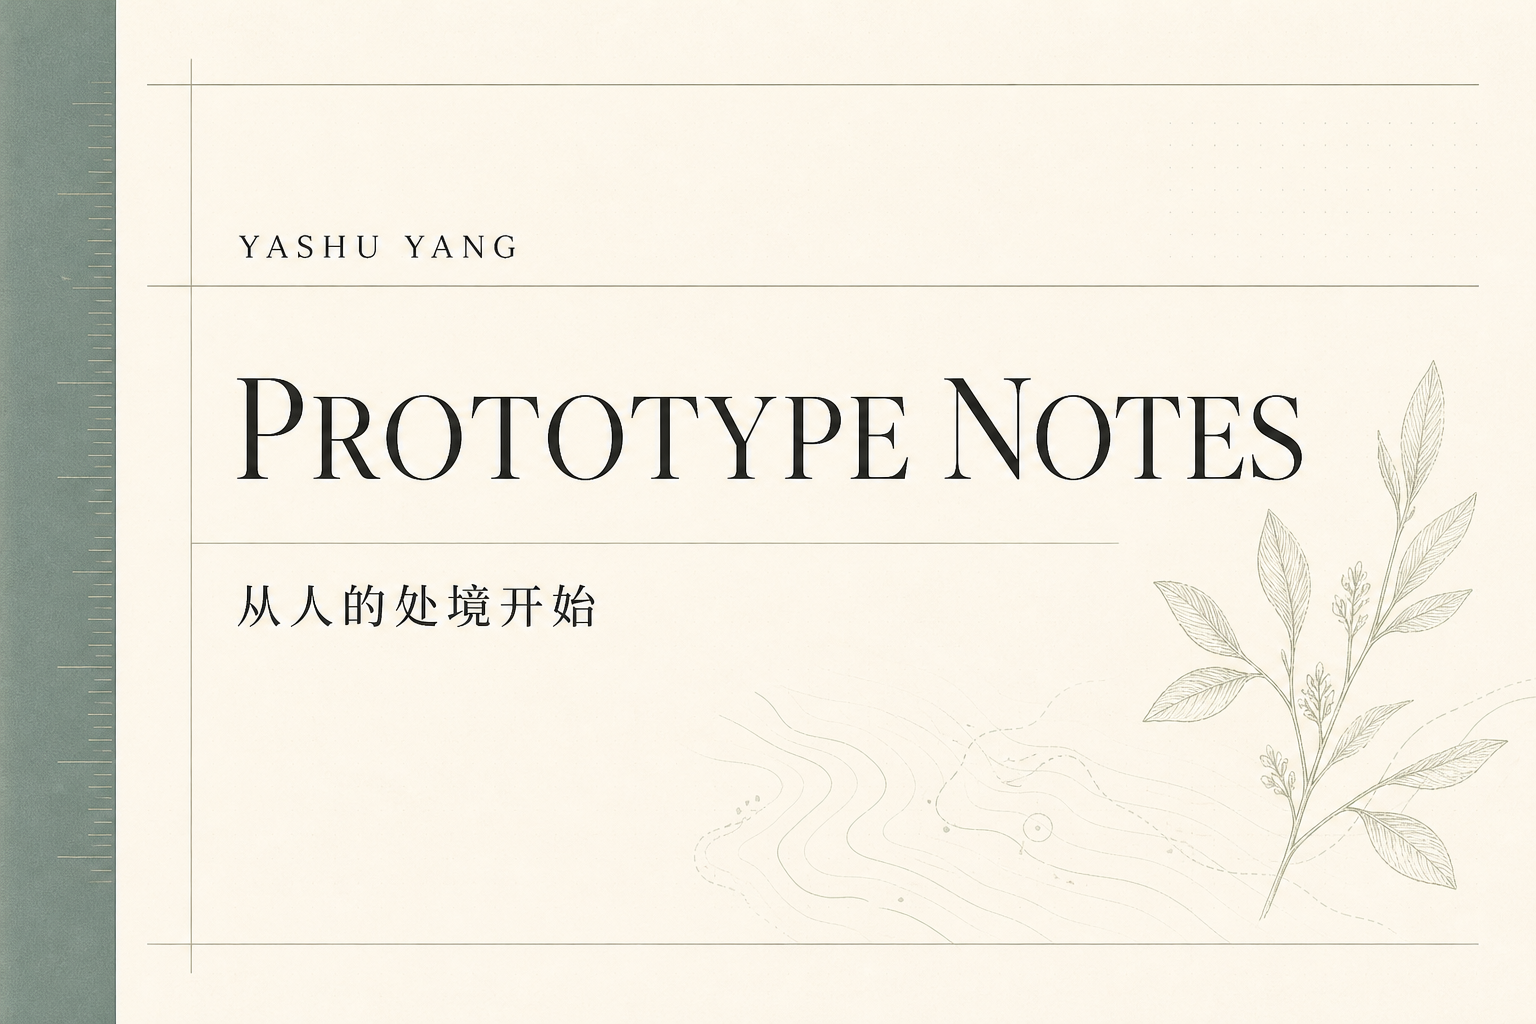
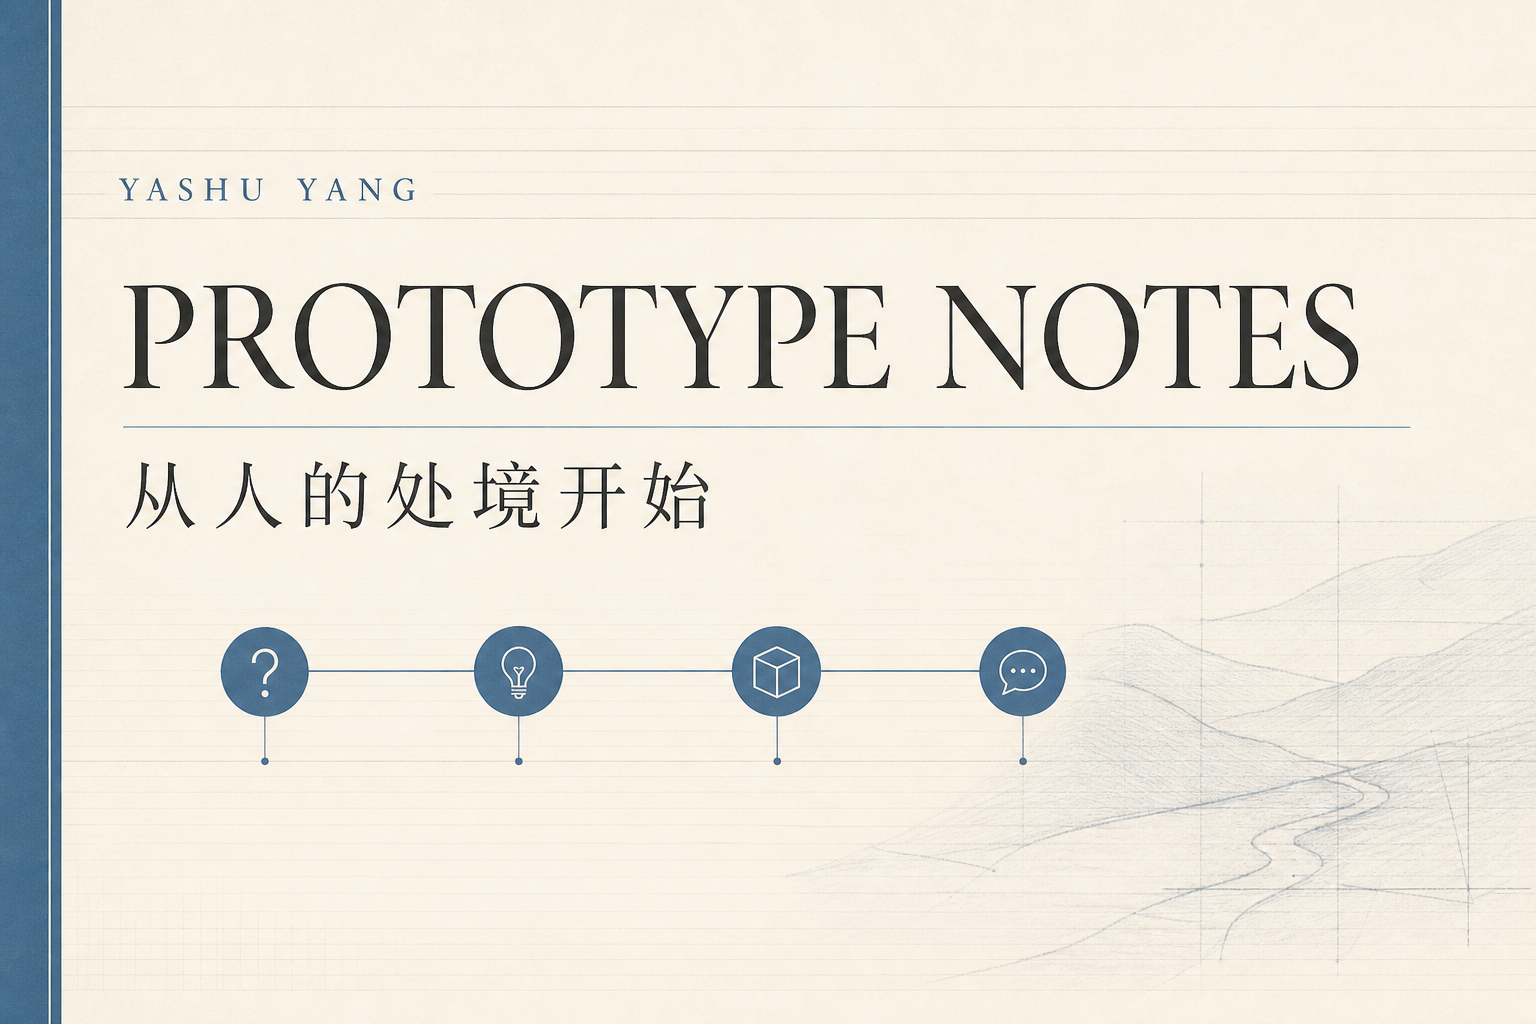
Reframe portfolio with a clearer cognitive flow
Move to a muted blue visual system and organize each project as problem, insight, action, result, and prototype experience.

diff --git a/index.html b/index.html
@@ -8,7 +8,7 @@
     <meta property="og:description" content="从人的处境开始：把生活经验做成可以被体验的问题。" />
     <meta property="og:image" content="https://yoshuayang.github.io/yashu-prototype-notes/og.png" />
     <link rel="canonical" href="https://yoshuayang.github.io/yashu-prototype-notes/" />
-    <link rel="stylesheet" href="styles.css?v=20260817-3" />
+    <link rel="stylesheet" href="styles.css?v=20260817-4" />
     <title>杨雅姝｜交互原型作品</title>
   </head>
   <body>
@@ -35,6 +35,9 @@
           <p class="section-label">A QUIET PLACE FOR QUESTIONS</p>
           <h1>从人的处境开始。</h1>
           <p class="hero-thesis">把模糊的生活经验，做成可以被体验的问题。</p>
+          <ol class="cognitive-path" aria-label="从研究问题到交互验证的工作路径">
+            <li><span>01</span><strong>识别问题</strong></li><li><span>02</span><strong>形成洞察</strong></li><li><span>03</span><strong>做成原型</strong></li><li><span>04</span><strong>获得反馈</strong></li>
+          </ol>
           <div class="hero-notes">
             <p>围绕亲密关系与注意力管理，我主导了两个交互原型：从日常经验中定义问题，完成需求拆解、交互设计与原型实现，并把模糊直觉转化为可体验、可验证的产品假设。</p>
             <dl>
@@ -47,22 +50,23 @@
         </section>
 
         <section class="projects" aria-label="交互原型作品">
-          <div class="section-heading"><p class="section-label">SELECTED PROTOTYPES</p><p>两次从生活经验到可交互界面的练习</p></div>
+          <div class="section-heading"><p class="section-label">SELECTED PROTOTYPES</p><p>沿着“问题—洞察—行动—结果”阅读</p></div>
 
           <article class="project-sheet relationship" id="project-01">
             <header class="project-heading">
               <div><p>01 / INTERACTIVE NOTE</p><h2>关系星系</h2><span>Relationship Galaxy</span></div>
               <span class="prototype-status">可交互原型</span>
             </header>
-            <blockquote>亲密关系中的冲突，能否从“谁对谁错”重新回到彼此未说出口的需要？</blockquote>
+            <blockquote><span>问题</span>亲密关系中的冲突，能否从“谁对谁错”重新回到彼此未说出口的需要？</blockquote>
             <div class="notation relationship" aria-hidden="true">
               <span class="notation-number">01</span><i class="orbit orbit-one"></i><i class="orbit orbit-two"></i><i class="node node-a"></i><i class="node node-b"></i><small>NEED ↔ EXPRESSION</small>
             </div>
             <div class="project-copy">
-              <p class="project-summary">把难以复盘的关系冲突，转译成可记录、可观察、可共同讨论的互动旅程。</p>
-              <p class="project-details">原型包含对话记录、关系模式分析、内心地图与共同探索路径；我负责问题定义、需求拆解、交互逻辑与原型迭代。</p>
+              <div class="reasoning-block"><span>01 / 洞察</span><p>关系冲突常被压缩成对错判断，真正影响互动的需要、表达方式和关系模式反而难以被看见。</p></div>
+              <div class="reasoning-block"><span>02 / 我做了什么</span><p>我把抽象的关系经验拆成对话记录、模式分析、内心地图与共同探索路径，并持续调整交互逻辑。</p></div>
+              <div class="reasoning-block result"><span>03 / 可体验结果</span><p>形成一条可记录、可观察、可共同讨论的互动旅程，让冲突重新成为理解彼此的入口。</p></div>
               <ul aria-label="项目标签"><li>亲密关系</li><li>需求洞察</li><li>叙事交互</li></ul>
-              <a class="launch" href="relationship-galaxy.html">打开原型 <span aria-hidden="true">↗</span></a>
+              <a class="launch" href="relationship-galaxy.html">04 / 打开原型 <span aria-hidden="true">↗</span></a>
               <p class="prototype-note">概念原型 · 不保存上传内容 · 不构成心理建议</p>
             </div>
           </article>
@@ -72,15 +76,16 @@
               <div><p>02 / INTERACTIVE NOTE</p><h2>PFC Insight</h2><span>Cognitive Workload Prototype</span></div>
               <span class="prototype-status">可交互原型</span>
             </header>
-            <blockquote>如果任务压力不只是待办数量，我们该如何看见切换、恢复与注意力的真实成本？</blockquote>
+            <blockquote><span>问题</span>如果任务压力不只是待办数量，我们该如何看见切换、恢复与注意力的真实成本？</blockquote>
             <div class="notation cognition" aria-hidden="true">
               <span class="notation-number">02</span><i class="bar bar-one"></i><i class="bar bar-two"></i><i class="bar bar-three"></i><i class="bar bar-four"></i><small>LOAD / SWITCH / RECOVER</small>
             </div>
             <div class="project-copy">
-              <p class="project-summary">把抽象的任务压力拆解为日程、切换成本与恢复节奏，让认知负担获得一个可讨论的界面。</p>
-              <p class="project-details">原型支持任务分类、负荷曲线、执行功能分解和恢复建议，展示从生活问题到交互规则的快速验证过程。</p>
+              <div class="reasoning-block"><span>01 / 洞察</span><p>任务压力不仅来自待办数量，也来自频繁切换、恢复不足，以及难以被觉察的注意力消耗。</p></div>
+              <div class="reasoning-block"><span>02 / 我做了什么</span><p>我把认知负担拆成任务分类、切换成本、负荷曲线与恢复节奏，并将判断过程转化为交互规则。</p></div>
+              <div class="reasoning-block result"><span>03 / 可体验结果</span><p>形成一个可视化认知负荷的概念原型，使抽象压力可以被看见、讨论和重新安排。</p></div>
               <ul aria-label="项目标签"><li>任务管理</li><li>信息可视化</li><li>认知负荷</li></ul>
-              <a class="launch" href="pfc-insight.html">打开原型 <span aria-hidden="true">↗</span></a>
+              <a class="launch" href="pfc-insight.html">04 / 打开原型 <span aria-hidden="true">↗</span></a>
               <p class="prototype-note">启发式概念模型 · 非医学评估、诊断或个体化建议</p>
             </div>
           </article>

diff --git a/styles.css b/styles.css
@@ -5,8 +5,9 @@
   --muted: #74736d;
   --faint: #a6a49c;
   --line: #d9d6cd;
-  --accent: #657b75;
-  --accent-soft: #e3e9e6;
+  --accent: #587996;
+  --accent-deep: #45657f;
+  --accent-soft: #e4edf3;
   --sage: #dce4dc;
   --warm: #eadfd5;
 }
@@ -47,7 +48,7 @@ a { color: inherit; }
   align-items: center;
   min-height: 100vh;
   padding: 30px 18px 24px;
-  background: var(--accent);
+  background: var(--accent-deep);
   color: white;
 }
 
@@ -102,7 +103,7 @@ a { color: inherit; }
 .paper {
   min-width: 0;
   background:
-    linear-gradient(90deg, transparent 0 64px, rgba(101, 123, 117, 0.08) 64px 65px, transparent 65px),
+    linear-gradient(90deg, transparent 0 64px, rgba(88, 121, 150, 0.08) 64px 65px, transparent 65px),
     var(--surface);
 }
 
@@ -187,13 +188,29 @@ a { color: inherit; }
   line-height: 1.5;
 }
 
+.cognitive-path {
+  position: relative;
+  z-index: 1;
+  display: grid;
+  grid-template-columns: repeat(4, 1fr);
+  max-width: 820px;
+  margin: 54px 0 0;
+  padding: 0;
+  border-top: 1px solid var(--line);
+  list-style: none;
+}
+.cognitive-path li { position: relative; padding: 20px 16px 0 0; }
+.cognitive-path li::before { content: ""; position: absolute; top: -4px; left: 0; width: 7px; height: 7px; border-radius: 50%; background: var(--accent); }
+.cognitive-path span { display: block; margin-bottom: 7px; color: var(--accent); font-family: Georgia, serif; font-size: 10px; }
+.cognitive-path strong { font-size: 12px; font-weight: 560; }
+
 .hero-notes {
   position: relative;
   z-index: 1;
   display: grid;
   grid-template-columns: 1.2fr 0.8fr;
   gap: clamp(44px, 9vw, 130px);
-  margin-top: 94px;
+  margin-top: 68px;
   padding-top: 24px;
   border-top: 1px solid var(--line);
 }
@@ -304,6 +321,7 @@ a { color: inherit; }
   font-size: clamp(21px, 2.5vw, 32px);
   line-height: 1.65;
 }
+.project-sheet blockquote > span { display: block; margin-bottom: 12px; color: var(--accent); font-family: Inter, sans-serif; font-size: 9px; font-weight: 700; letter-spacing: 0.16em; }
 
 .notation {
   position: relative;
@@ -315,8 +333,8 @@ a { color: inherit; }
   background-size: 100% 32px;
 }
 
-.notation.relationship { background-color: #f1ebe6; }
-.notation.cognition { background-color: #e8eeeb; }
+.notation.relationship { background-color: #edf2f5; }
+.notation.cognition { background-color: #e7eef4; }
 
 .notation-number {
   position: absolute;
@@ -338,7 +356,7 @@ a { color: inherit; }
 
 .notation .orbit {
   position: absolute;
-  border: 1px solid rgba(101, 123, 117, 0.52);
+  border: 1px solid rgba(88, 121, 150, 0.52);
   border-radius: 50%;
   transform: rotate(-21deg);
 }
@@ -346,14 +364,14 @@ a { color: inherit; }
 .notation .orbit-two { width: 112px; height: 174px; right: 28%; top: 19%; transform: rotate(42deg); }
 .notation .node { position: absolute; width: 18px; height: 18px; border-radius: 50%; }
 .notation .node-a { right: 31%; top: 25%; background: var(--accent); }
-.notation .node-b { right: 21%; top: 51%; background: #bd8f7b; }
+.notation .node-b { right: 21%; top: 51%; background: #8faabe; }
 
 .notation .bar {
   position: absolute;
   bottom: 74px;
   width: 12%;
   border-radius: 36px 36px 0 0;
-  background: rgba(101, 123, 117, 0.56);
+  background: rgba(88, 121, 150, 0.56);
 }
 .notation .bar-one { left: 22%; height: 64px; }
 .notation .bar-two { left: 38%; height: 132px; }
@@ -365,19 +383,10 @@ a { color: inherit; }
   padding-top: 8px;
 }
 
-.project-summary {
-  margin: 0 0 22px;
-  font-family: "Songti SC", STSong, Georgia, serif;
-  font-size: 23px;
-  line-height: 1.75;
-}
-
-.project-details {
-  margin: 0;
-  color: var(--muted);
-  font-size: 14px;
-  line-height: 1.9;
-}
+.reasoning-block { display: grid; grid-template-columns: 112px 1fr; gap: 24px; padding: 18px 0; border-top: 1px solid var(--line); }
+.reasoning-block > span { color: var(--accent); font-size: 9px; font-weight: 700; letter-spacing: 0.1em; }
+.reasoning-block p { margin: 0; color: var(--muted); font-size: 14px; line-height: 1.85; }
+.reasoning-block.result p { color: var(--ink); font-family: "Songti SC", STSong, Georgia, serif; font-size: 18px; }
 
 .project-copy ul {
   display: flex;
@@ -455,7 +464,7 @@ a { color: inherit; }
   position: absolute;
   right: 5%;
   top: -18%;
-  color: rgba(101, 123, 117, 0.12);
+  color: rgba(88, 121, 150, 0.12);
   font-family: Georgia, serif;
   font-size: 360px;
   line-height: 1;
@@ -465,7 +474,7 @@ a { color: inherit; }
   position: relative;
   max-width: 630px;
   margin: 48px 0 0 auto;
-  color: #52625e;
+  color: #465d70;
   font-family: "Songti SC", STSong, Georgia, serif;
   font-size: 15px;
   line-height: 2;
@@ -516,6 +525,7 @@ footer {
   .hero h1 { font-size: clamp(52px, 17vw, 78px); }
   .hero-thesis { font-size: 24px; }
   .hero-notes { grid-template-columns: 1fr; gap: 36px; margin-top: 70px; }
+  .cognitive-path { grid-template-columns: repeat(2, 1fr); gap: 22px 0; }
   .scroll-note { display: none; }
   .section-heading { align-items: flex-start; flex-direction: column; gap: 7px; }
   .project-sheet { padding: 54px 0 78px; gap: 34px; }
@@ -523,6 +533,7 @@ footer {
   .prototype-status { margin-top: 24px; }
   .project-sheet blockquote { padding-left: 17px; font-size: 21px; }
   .notation { min-height: 250px; }
+  .reasoning-block { grid-template-columns: 1fr; gap: 8px; }
   .method-intro { grid-template-columns: 1fr; gap: 18px; }
   .method-index { font-size: 62px; }
   .method h2, .next-question h2 { font-size: 36px; }
